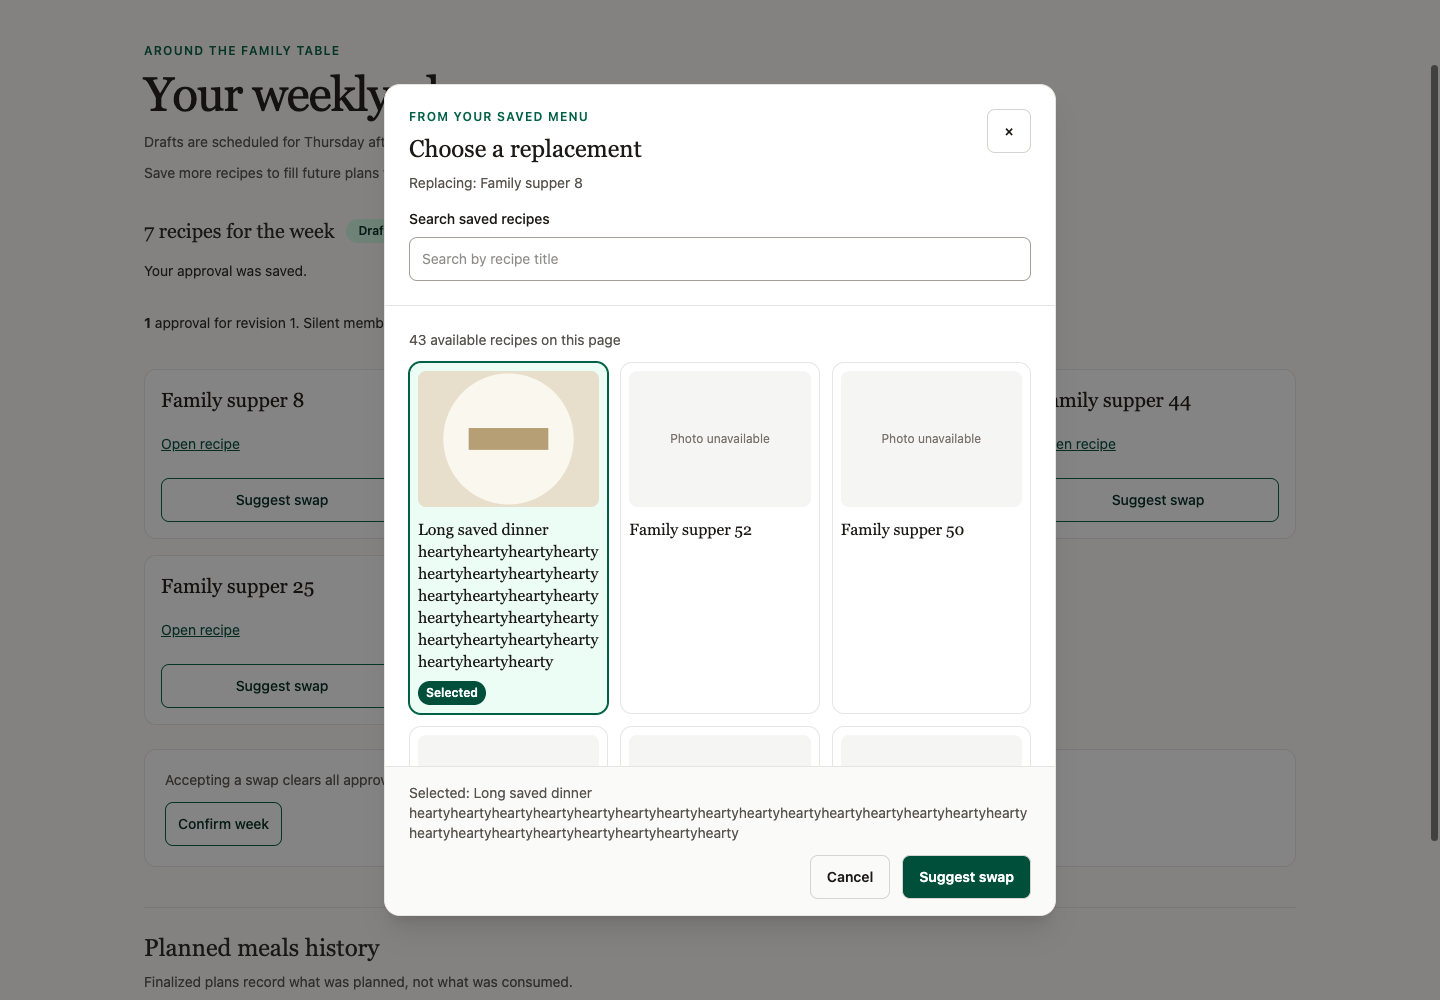
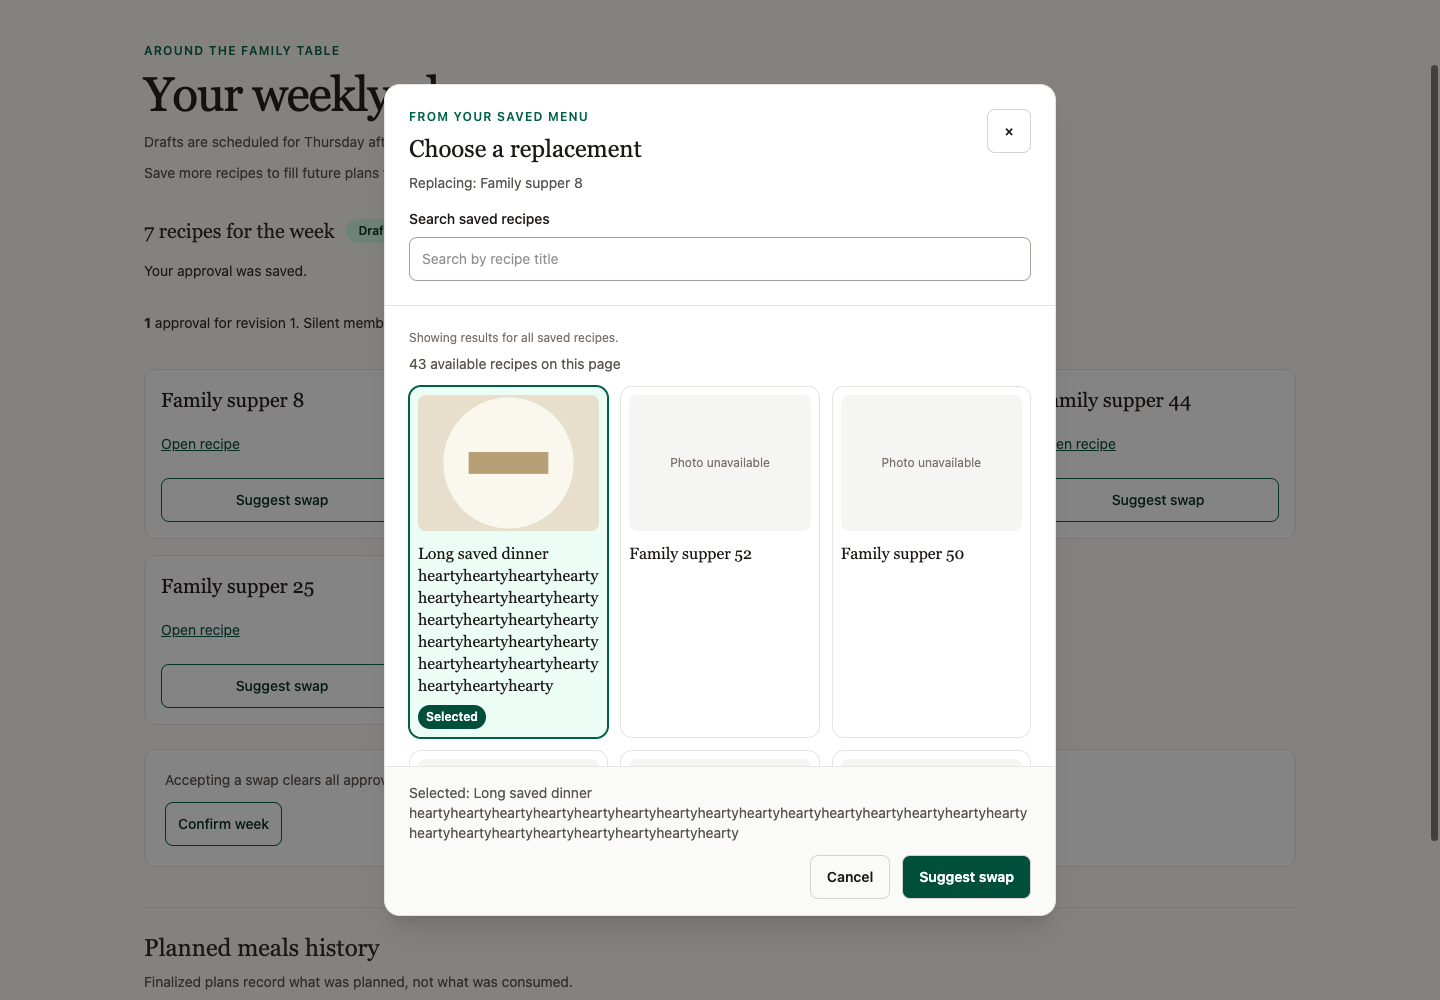
fix: retain recipe results while search is pending

diff --git a/app/plans/swap-recipe-dialog.tsx b/app/plans/swap-recipe-dialog.tsx
@@ -38,11 +38,11 @@ async function readPage(response: Response, signal: AbortSignal): Promise<MenuPa
   } catch (error) { await reader.cancel().catch(() => {}); throw error; }
   finally { signal.removeEventListener('abort', cancel); reader.releaseLock(); }
 }
-function Choice({ entry, selected, onSelect }: { entry: SavedMenuEntry; selected: boolean; onSelect: () => void }) {
+function Choice({ entry, selected, disabled, onSelect }: { entry: SavedMenuEntry; selected: boolean; disabled: boolean; onSelect: () => void }) {
   const [failedUrl, setFailedUrl] = useState<string | null>(null);
   const recipe = entry.recipe;
-  return <button type="button" data-swap-choice={entry.id} aria-label={recipe.title} aria-pressed={selected} onClick={onSelect}
-    className={`flex min-h-24 min-w-0 items-center gap-3 rounded-xl border p-2 text-left focus-visible:outline-2 focus-visible:outline-offset-2 focus-visible:outline-emerald-800 sm:flex-col sm:items-stretch ${selected ? 'border-emerald-800 bg-emerald-50 ring-1 ring-emerald-800' : 'border-stone-200 bg-white hover:border-emerald-700'}`}>
+  return <button type="button" data-swap-choice={entry.id} aria-label={recipe.title} aria-pressed={selected} disabled={disabled} onClick={onSelect}
+    className={`flex min-h-24 min-w-0 items-center gap-3 rounded-xl border p-2 text-left disabled:cursor-wait focus-visible:outline-2 focus-visible:outline-offset-2 focus-visible:outline-emerald-800 sm:flex-col sm:items-stretch ${selected ? 'border-emerald-800 bg-emerald-50 ring-1 ring-emerald-800' : 'border-stone-200 bg-white hover:border-emerald-700'}`}>
     <span className="relative flex size-24 shrink-0 items-center justify-center overflow-hidden rounded-lg bg-stone-100 sm:aspect-4/3 sm:h-auto sm:w-full" aria-hidden="true">
       {recipe.imageUrl && failedUrl !== recipe.imageUrl ? <Image src={recipe.imageUrl} alt="" width={240} height={180} unoptimized loading="lazy" referrerPolicy="no-referrer" className="h-full w-full object-cover" onError={() => setFailedUrl(recipe.imageUrl)} /> : <span className="px-2 text-center text-xs text-stone-500">Photo unavailable</span>}
     </span>
@@ -53,7 +53,7 @@ export default function SwapRecipeDialog({ title, plannedSources, trigger, block
   const dialog = useRef<HTMLDialogElement>(null), search = useRef<HTMLInputElement>(null);
   const backdrop = useRef(false), alive = useRef(true), request = useRef({ version: 0 }), active = useRef<AbortController | null>(null), submittingNow = useRef(false);
   const [query, setQuery] = useState(''), [after, setAfter] = useState<string | undefined>(), [retry, setRetry] = useState(0);
-  const [page, setPage] = useState<MenuPage | null>(null), [loading, setLoading] = useState(true), [loadError, setLoadError] = useState<number | null>(null);
+  const [displayed, setDisplayed] = useState<{ page: MenuPage; query: string; after?: string } | null>(null), [loading, setLoading] = useState(true), [loadError, setLoadError] = useState<number | null>(null);
   const [selection, setSelection] = useState<string | null>(null), [submitting, setSubmitting] = useState(false), [outcome, setOutcome] = useState<SwapOutcome | null>(null);
   useEffect(() => {
     alive.current = true;
@@ -77,21 +77,23 @@ export default function SwapRecipeDialog({ title, plannedSources, trigger, block
         const response = await fetch('/api/menu' + (params.size ? '?' + params : ''), { signal: controller.signal, cache: 'no-store' });
         if (!response.ok) throw new LoadError(response.status);
         const result = await readPage(response, controller.signal);
-        if (alive.current && version === request.current.version && !controller.signal.aborted) { setPage(result); setLoadError(null); }
+        if (alive.current && version === request.current.version && !controller.signal.aborted) { setDisplayed({ page: result, query: query.trim(), after }); setLoadError(null); }
       } catch (error) {
-        if (alive.current && version === request.current.version && (!controller.signal.aborted || timedOut)) { setPage(null); setSelection(null); setLoadError(error instanceof LoadError ? error.status : 503); }
+        if (alive.current && version === request.current.version && (!controller.signal.aborted || timedOut)) { const status = error instanceof LoadError ? error.status : 503; if (status === 401 || status === 403) setDisplayed(null); setSelection(null); setLoadError(status); }
       } finally { clearTimeout(deadline); if (alive.current && version === request.current.version) setLoading(false); }
     }, query ? 250 : 0);
     return () => { counter.version++; clearTimeout(debounce); clearTimeout(deadline); controller.abort(); };
   }, [query, after, retry]);
-  function reset() { request.current.version++; active.current?.abort(); setSelection(null); setPage(null); setOutcome(null); setLoadError(null); setLoading(true); }
+  function reset() { request.current.version++; active.current?.abort(); setSelection(null); setOutcome(null); setLoadError(null); setLoading(true); }
   function changeQuery(value: string) { reset(); setQuery(value); setAfter(undefined); }
   function changePage(value: string | undefined) { reset(); setAfter(value); if (value === after) setRetry(value => value + 1); }
   function dismiss() { dialog.current?.close(); onDismiss(); }
+  const page = displayed?.page;
+  const unavailable = loading || loadError !== null || !displayed || displayed.query !== query.trim() || displayed.after !== after;
   const planned = new Set(plannedSources), choices = page?.entries.filter(entry => !planned.has(entry.recipe.sourceUrl)) ?? [];
-  const selected = choices.find(entry => entry.id === selection);
+  const selected = unavailable ? undefined : choices.find(entry => entry.id === selection);
   async function confirm() {
-    if (!selected || loading || loadError || blocked || submittingNow.current) return;
+    if (!selected || unavailable || blocked || submittingNow.current) return;
     submittingNow.current = true; setSubmitting(true); setOutcome(null);
     try {
       const result = await onSubmit(selected.id);
@@ -112,17 +114,20 @@ export default function SwapRecipeDialog({ title, plannedSources, trigger, block
         <input ref={search} id="swap-search" type="search" value={query} maxLength={100} onChange={event => changeQuery(event.target.value)} className="mt-2 min-h-11 w-full min-w-0 rounded-lg border border-stone-400 bg-white px-3 text-sm focus-visible:outline-2 focus-visible:outline-emerald-800" placeholder="Search by recipe title" />
       </div>
       <div className="min-h-0 flex-1 overflow-y-auto p-4 sm:p-6" aria-busy={loading}>
-        {loading ? <p role="status" className="py-6 text-sm text-stone-600">Loading saved recipes…</p> : loadError ? <div role="alert"><p>Could not load saved recipes. Please try again.</p><button type="button" className={`${action} mt-3`} onClick={() => { reset(); setRetry(value => value + 1); }}>Retry loading recipes</button>{loadError === 401 ? <a className="ml-3 inline-flex min-h-11 items-center underline" href="/sign-in">Sign in</a> : loadError === 403 ? <a className="ml-3 inline-flex min-h-11 items-center underline" href="/onboarding">Check access</a> : null}</div> : page ? <>
+        {loading && !displayed ? <p role="status" className="mb-3 text-sm text-stone-600">Loading saved recipes…</p> : null}
+        {loadError ? <div role="alert" className="mb-4"><p>Could not load saved recipes. Please try again.</p><button type="button" className={`${action} mt-3`} onClick={() => { reset(); setRetry(value => value + 1); }}>Retry loading recipes</button>{loadError === 401 ? <a className="ml-3 inline-flex min-h-11 items-center underline" href="/sign-in">Sign in</a> : loadError === 403 ? <a className="ml-3 inline-flex min-h-11 items-center underline" href="/onboarding">Check access</a> : null}</div> : null}
+        {page && displayed ? <>
+          <p className="mb-2 text-xs wrap-anywhere text-stone-500">Showing {displayed.query !== query.trim() || displayed.after !== after ? 'previous ' : ''}results for {displayed.query ? `“${displayed.query}”` : 'all saved recipes'}{displayed.after ? ' (older page)' : ''}.</p>
           <p role="status" className="mb-3 text-sm text-stone-600">{choices.length} available {choices.length === 1 ? 'recipe' : 'recipes'} on this page</p>
-          {!page.entries.length ? <p className="py-4 text-sm text-stone-600">{query.trim() ? 'No saved recipe titles match your search.' : 'No saved recipes on this page. Add recipes to your menu to suggest a swap.'}</p> : !choices.length ? <p className="py-4 text-sm text-stone-600">These recipes are already in your plan. Search for another title or browse older matches.</p> : <div role="group" aria-label="Available replacement recipes" className="grid min-w-0 grid-cols-1 gap-3 sm:grid-cols-3">{choices.map(entry => <Choice key={entry.id} entry={entry} selected={selected?.id === entry.id} onSelect={() => { setSelection(entry.id); setOutcome(null); }} />)}</div>}
-          <nav aria-label="Recipe search pages" className="mt-4 flex flex-wrap justify-between gap-3">{after ? <button type="button" className={action} onClick={() => changePage(undefined)}>Newest matches</button> : <span />}{page.nextCursor ? <button type="button" className={action} onClick={() => changePage(page.nextCursor!)}>Older matches</button> : null}</nav>
-          {query ? <button type="button" className="mt-2 min-h-11 text-sm text-emerald-900 underline" onClick={() => changeQuery('')}>Clear search</button> : null}
+          {!page.entries.length ? <p className="py-4 text-sm text-stone-600">{displayed.query ? 'No saved recipe titles match your search.' : 'No saved recipes on this page. Add recipes to your menu to suggest a swap.'}</p> : !choices.length ? <p className="py-4 text-sm text-stone-600">These recipes are already in your plan. Search for another title or browse older matches.</p> : <div role="group" aria-label="Available replacement recipes" className="grid min-w-0 grid-cols-1 gap-3 sm:grid-cols-3">{choices.map(entry => <Choice key={entry.id} entry={entry} selected={selected?.id === entry.id} disabled={unavailable} onSelect={() => { if (!unavailable) { setSelection(entry.id); setOutcome(null); } }} />)}</div>}
+          <nav aria-label="Recipe search pages" className="mt-4 flex flex-wrap justify-between gap-3">{displayed.after ? <button type="button" disabled={unavailable} className={action} onClick={() => changePage(undefined)}>Newest matches</button> : <span />}{page.nextCursor ? <button type="button" disabled={unavailable} className={action} onClick={() => changePage(page.nextCursor!)}>Older matches</button> : null}</nav>
         </> : null}
+        {query ? <button type="button" className="mt-2 min-h-11 text-sm text-emerald-900 underline" onClick={() => changeQuery('')}>Clear search</button> : null}
       </div>
       <div className="shrink-0 border-t border-stone-200 bg-stone-50 p-4 sm:px-6">
         <p role="status" className="text-sm wrap-anywhere text-stone-600">{selected ? `Selected: ${selected.recipe.title}` : 'Choose a recipe, then suggest the swap.'}</p>
         {outcome ? <div role="alert" className="mt-2 text-sm wrap-anywhere"><p>{outcome.message}</p>{outcome.status === 409 ? <button type="button" className={`${action} mt-2`} onClick={onRefresh}>Refresh plan</button> : outcome.status === 401 ? <a href="/sign-in" className="inline-flex min-h-11 items-center underline">Sign in</a> : outcome.status === 403 ? <a href="/onboarding" className="inline-flex min-h-11 items-center underline">Check access</a> : null}</div> : null}
-        <div className="mt-3 flex flex-wrap justify-end gap-3"><button data-swap-cancel type="button" className={action} onClick={dismiss}>Cancel</button><button data-swap-confirm type="button" disabled={!selected || loading || Boolean(loadError) || blocked || submitting} onClick={() => { void confirm(); }} className={`${action} border-emerald-900 bg-emerald-900 text-white hover:bg-emerald-950`}>{submitting ? 'Suggesting…' : 'Suggest swap'}</button></div>
+        <div className="mt-3 flex flex-wrap justify-end gap-3"><button data-swap-cancel type="button" className={action} onClick={dismiss}>Cancel</button><button data-swap-confirm type="button" disabled={!selected || unavailable || blocked || submitting} onClick={() => { void confirm(); }} className={`${action} border-emerald-900 bg-emerald-900 text-white hover:bg-emerald-950`}>{submitting ? 'Suggesting…' : 'Suggest swap'}</button></div>
       </div>
     </div>
   </dialog>;

diff --git a/tests/plans/browser.ts b/tests/plans/browser.ts
@@ -46,6 +46,23 @@ try{
  for(const width of [320,1440]){await browser.viewport(width);await browser.screenshot(`org/reviews/weekly-plan-draft-${width}.png`);}
 
  const initialSuggestions=(await db.one<{n:number}>('SELECT count(*) AS n FROM meal_plan_suggestions'))?.n;
+ // Keep the successful display snapshot through physical typing and body loading.
+ await openPicker(0);await choose('Family supper 50');
+ const choiceIds=()=>liveBrowser.evaluate<string[]>("Array.from(document.querySelectorAll('[data-swap-choice]')).map(choice=>choice.getAttribute('data-swap-choice'))");
+ const retainedIds=await choiceIds();assert.ok(retainedIds.length>0);
+ await menuFixture('lateBody',650);await browser.click('#swap-search');await browser.send('Input.insertText',{text:'F'});await browser.evaluate('new Promise(resolve=>requestAnimationFrame(()=>requestAnimationFrame(resolve)))');
+ console.log(`Retained-results baseline: ${retainedIds.length} populated choices; ${ (await choiceIds()).length } choices while typing F.`);
+ assert.deepEqual(await choiceIds(),retainedIds,'typing/debounce must retain every displayed choice ID');
+ assert.equal(await browser.evaluate("Array.from(document.querySelectorAll('[data-swap-choice],nav[aria-label=\"Recipe search pages\"] button')).every(control=>control.disabled)&&document.querySelector('[data-swap-confirm]').disabled&&!document.querySelector('[aria-pressed=true]')"),true,'retained old actions disabled and selection cleared immediately');
+ assert.equal(await browser.evaluate("!document.querySelector('dialog').innerText.includes('Updating')&&document.querySelector('dialog [aria-busy]').getAttribute('aria-busy')==='true'&&document.querySelector('dialog').innerText.includes('Showing previous results for all saved recipes')"),true,'quiet busy state describes the retained snapshot without visible updating copy');
+ await browser.send('Input.insertText',{text:'a'});assert.deepEqual(await choiceIds(),retainedIds,'successive typing keeps the same display');await browser.waitFor('window.__swapBodyStarted');assert.deepEqual(await choiceIds(),retainedIds,'fetch headers alone cannot replace the display');assert.equal(await browser.evaluate("document.querySelector('[data-swap-confirm]').disabled"),true);
+ await browser.waitFor("document.querySelector('dialog [aria-busy]').getAttribute('aria-busy')==='false'");assert.notDeepEqual(await choiceIds(),retainedIds,'validated latest response atomically replaces the display');assert.equal(await browser.evaluate("!document.querySelector('[aria-pressed=true]')&&Array.from(document.querySelectorAll('[data-swap-choice]')).every(control=>!control.disabled)"),true);await restoreFetch();
+ const priorErrorIds=await choiceIds();await menuFixture('malformed');await searchPicker('Family supper 0');assert.deepEqual(await choiceIds(),priorErrorIds,'ordinary error keeps prior successful cards');assert.equal(await browser.evaluate("Boolean(document.querySelector('dialog [role=alert]'))&&Array.from(document.querySelectorAll('[data-swap-choice],nav[aria-label=\"Recipe search pages\"] button')).every(control=>control.disabled)&&document.querySelector('[data-swap-confirm]').disabled"),true);await browser.click('dialog [role=alert] button');await browser.waitFor("document.querySelectorAll('[data-swap-choice]').length===1&&!document.querySelector('dialog [role=alert]')");await restoreFetch();
+ for(const mode of ['status401','status403']){await menuFixture(mode);await searchPicker(mode==='status401'?'Family supper':'family SUPPER');assert.equal((await choiceIds()).length,0,'access loss clears confidential retained cards');assert.equal(await browser.evaluate(`Boolean(document.querySelector('dialog a[href="${mode==='status401'?'/sign-in':'/onboarding'}"]'))&&document.querySelector('[data-swap-confirm]').disabled`),true);await browser.click('dialog [role=alert] button');await browser.waitFor("document.querySelectorAll('[data-swap-choice]').length>0&&!document.querySelector('dialog [role=alert]')");await restoreFetch();}
+ await browser.click('nav[aria-label="Recipe search pages"] button:last-child');await browser.waitFor("document.querySelector('dialog [aria-busy]').getAttribute('aria-busy')==='false'&&Boolean(document.querySelector('nav[aria-label=\"Recipe search pages\"] button'))");
+ await searchPicker('Family supper 0');const lastQuery=browser.requests.filter(url=>new URL(url).pathname==='/api/menu'&&new URL(url).searchParams.get('q')==='Family supper 0').at(-1);assert.ok(lastQuery);assert.equal(new URL(lastQuery).searchParams.has('after'),false,'changed query never reuses the displayed old page cursor');
+ await menuFixture('empty');await searchPicker('No titles here');assert.equal((await choiceIds()).length,0,'validated empty success replaces old cards');await restoreFetch();await browser.click('[data-swap-cancel]');
+
  // Compare physical dialog geometry, including the immediate reset/debounce frame.
  for(const [width,height] of [[320,1000],[768,1000],[1024,1000],[1440,1000],[320,568]]){
   await browser.send('Emulation.setDeviceMetricsOverride',{width,height,deviceScaleFactor:1,mobile:false});await openPicker(0);

diff --git a/intent/searchable-swap-picker/verification.md b/intent/searchable-swap-picker/verification.md
@@ -269,3 +269,75 @@ The user's original next-env SHA remains unchanged and unstaged. Original dev
 process/cache remain untouched. The owned private QA copy is removed after the
 independent final review; versioned screenshots and result summaries remain.
 Final follow-up review: `org/reviews/searchable-swap-picker-stable-frame-final-001.md`.
+
+## Follow-up — quietly retain displayed recipes until new results are ready
+
+Approved amendment: `org/reviews/searchable-swap-picker-retained-results-plan-001.md`
+(0aec91d). The owner's further instruction, “No need to display updating recipes,”
+was applied during implementation: no visible Updating message is rendered while
+successful recipes remain displayed. aria-busy preserves the loading signal;
+initial loading with no previous successful page retains its original message.
+
+All changes and QA occurred only at
+`/private/tmp/meal-planner-retained-results-0he__gw5/project`, using pinned Node24
+PATH and empty paid keys. Original application source, live process, next-env.d.ts,
+.next and development/hosted data were untouched by this developer. No Git or
+copy-back operation ran here; private generated next-env remains excluded.
+
+### Actual red/green behavior
+
+Added real DOM choice-ID assertions before changing the dialog. The old source
+built successfully (`build-red.log`), then Chrome exited1 (`browser-red.log`):
+“Retained-results baseline:43 populated choices;0 choices while typing F.”
+The exact saved ID array became empty during debounce, reproducing the reported
+blanking. No production source had been changed before that failure.
+
+Only `app/plans/swap-recipe-dialog.tsx` runtime state/rendering changed. A single
+successful displayed snapshot now carries its validated page/query/cursor;
+requested query/page remains separate. Query/page changes still abort old work
+and clear selection immediately, but preserve the display. Native choices,
+paging and confirmation are disabled while the latest request is pending,
+failed or not represented by the displayed snapshot. Metadata names the actual
+visible query/page. Only current-instance/current-request validated success
+commits a replacement snapshot; ordinary failures retain it with Retry, whereas
+current401/403 clears confidential displayed recipes. Stable-frame CSS, API,
+parent action ownership, response/deadline bounds and version guards are unchanged.
+
+Final Chrome exited0 (`browser-final.log`), reporting:
+“Retained-results baseline:43 populated choices;43 choices while typing F.”
+Exact IDs/order stay identical across successive physical characters, debounce
+and delayed response-body loading. Selection is immediately absent, old native
+choices/paging are disabled and confirmation cannot submit them. Only completed
+validated latest success replaces the IDs and permits fresh selection. No visible
+Updating copy is present while aria-busy is true. Ordinary malformed-response
+failure preserves old IDs with disabled actions and Retry; Retry replaces them
+with the requested results. Current401 and403 each clear the retained cards and
+show access links. A changed query after paging sends no old after cursor; a
+valid empty success replaces rather than indefinitely retaining old recipes.
+
+The full prior request/close/reopen/post-fetch-body/late-mutation race, native
+keyboard/focus/dismissal, one-POST/captured stale revision, full-menu search/paging,
+image fallback and unique planning/history assertions remain. All55 physical
+rectangle samples at320/768/1024/1440×1000 and320×568 still have maximum delta0px.
+No numeric dates outside history controls, horizontal overflow or unexpected
+browser console errors. Owned browser/profile/server/database resources cleaned.
+
+### Final checks and visual handoff
+
+Private lint, strict typecheck and production build exited0. Source/build were
+frozen before root's full broad batch; all223 Node tests (82 recipes+34 family+
+39 menu+16 auth+20 plans+32 deployment) and7 Python tests passed on this build.
+No Node test count was added; the regression extends the existing Chrome flow.
+Actual logs in `/private/tmp/meal-planner-retained-results-0he__gw5/`:
+`lint-final.log`, `typecheck-final.log`, `build-final.log`, `browser-final.log`,
+plus root's `regression-*.log`. Red logs above remain preserved.
+
+Refreshed the existing four browse/selected modal screenshots. Visually inspected
+browse320/1440 and selected320×568: accurate display metadata, stable rows/grid,
+wrapped long title, no visible Updating label and reachable action footer. Prior
+stable-frame geometry and scrolling are preserved. Exact handoff paths are in
+this QA parent's `handoff.json`; only dialog, browser test, feature verification
+and changed existing modal PNGs are eligible for guarded copy-back. No helper,
+dependency, schema, API/auth, provider, scheduler, deployment or hosted change.
+Root owns final source/security review, baseline-checked copy-back, Git/secret
+checks and separate human merge/release gates.
